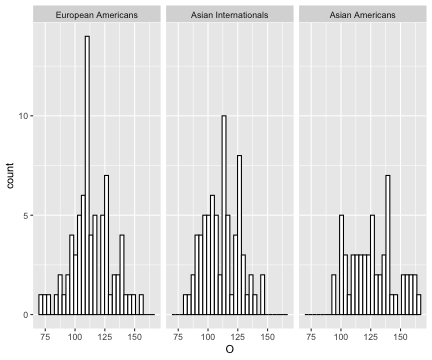
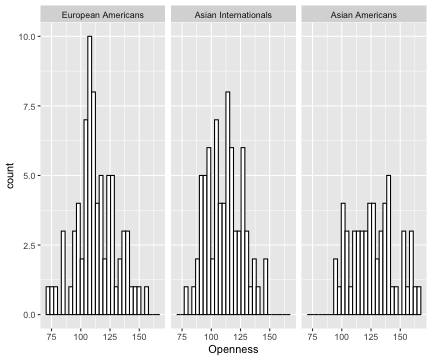
new MVN lecture 3

diff --git a/PY_0794/Lecture_3/Tukey.html b/PY_0794/Lecture_3/Tukey.html
@@ -1,0 +1,6 @@
+
+<table style="text-align:center"><tr><td colspan="8" style="border-bottom: 1px solid black"></td></tr><tr><td style="text-align:left"></td><td>term</td><td>contrast</td><td>null.value</td><td>estimate</td><td>conf.low</td><td>conf.high</td><td>adj.p.value</td></tr>
+<tr><td colspan="8" style="border-bottom: 1px solid black"></td></tr><tr><td style="text-align:left">1</td><td>GRP</td><td>Asian Internationals-European Americans</td><td>0</td><td>-2.03888888888891</td><td>-8.68963370660927</td><td>4.61185592883146</td><td>0.749633207840348</td></tr>
+<tr><td style="text-align:left">2</td><td>GRP</td><td>Asian Americans-European Americans</td><td>0</td><td>13.5821428571428</td><td>6.46313454719639</td><td>20.7011511670893</td><td>3.34648330032605e-05</td></tr>
+<tr><td style="text-align:left">3</td><td>GRP</td><td>Asian Americans-Asian Internationals</td><td>0</td><td>15.6210317460317</td><td>8.43890243132167</td><td>22.8031610607418</td><td>1.98517029126322e-06</td></tr>
+<tr><td colspan="8" style="border-bottom: 1px solid black"></td></tr></table>

diff --git a/PY_0794/Lecture_3/Lecture3-xaringan.html b/PY_0794/Lecture_3/Lecture3-xaringan.html
@@ -782,7 +782,7 @@ t1way(O ~ GRP, data = data_no_miss)
 ## p-value: 6e-05 
 ## 
 ## Explanatory measure of effect size: 0.44 
-## Bootstrap CI: [0.24; 0.61]
+## Bootstrap CI: [0.25; 0.64]
 ```
 
 ---
@@ -805,9 +805,9 @@ t1waybt(O ~ GRP, data = data_no_miss, nboot = 10000)
 ## Effective number of bootstrap samples was 10000.
 ## 
 ## Test statistic: 11.067 
-## p-value: 1e-04 
-## Variance explained: 0.191 
-## Effect size: 0.437
+## p-value: 0 
+## Variance explained: 0.197 
+## Effect size: 0.444
 ```
 
 ---
